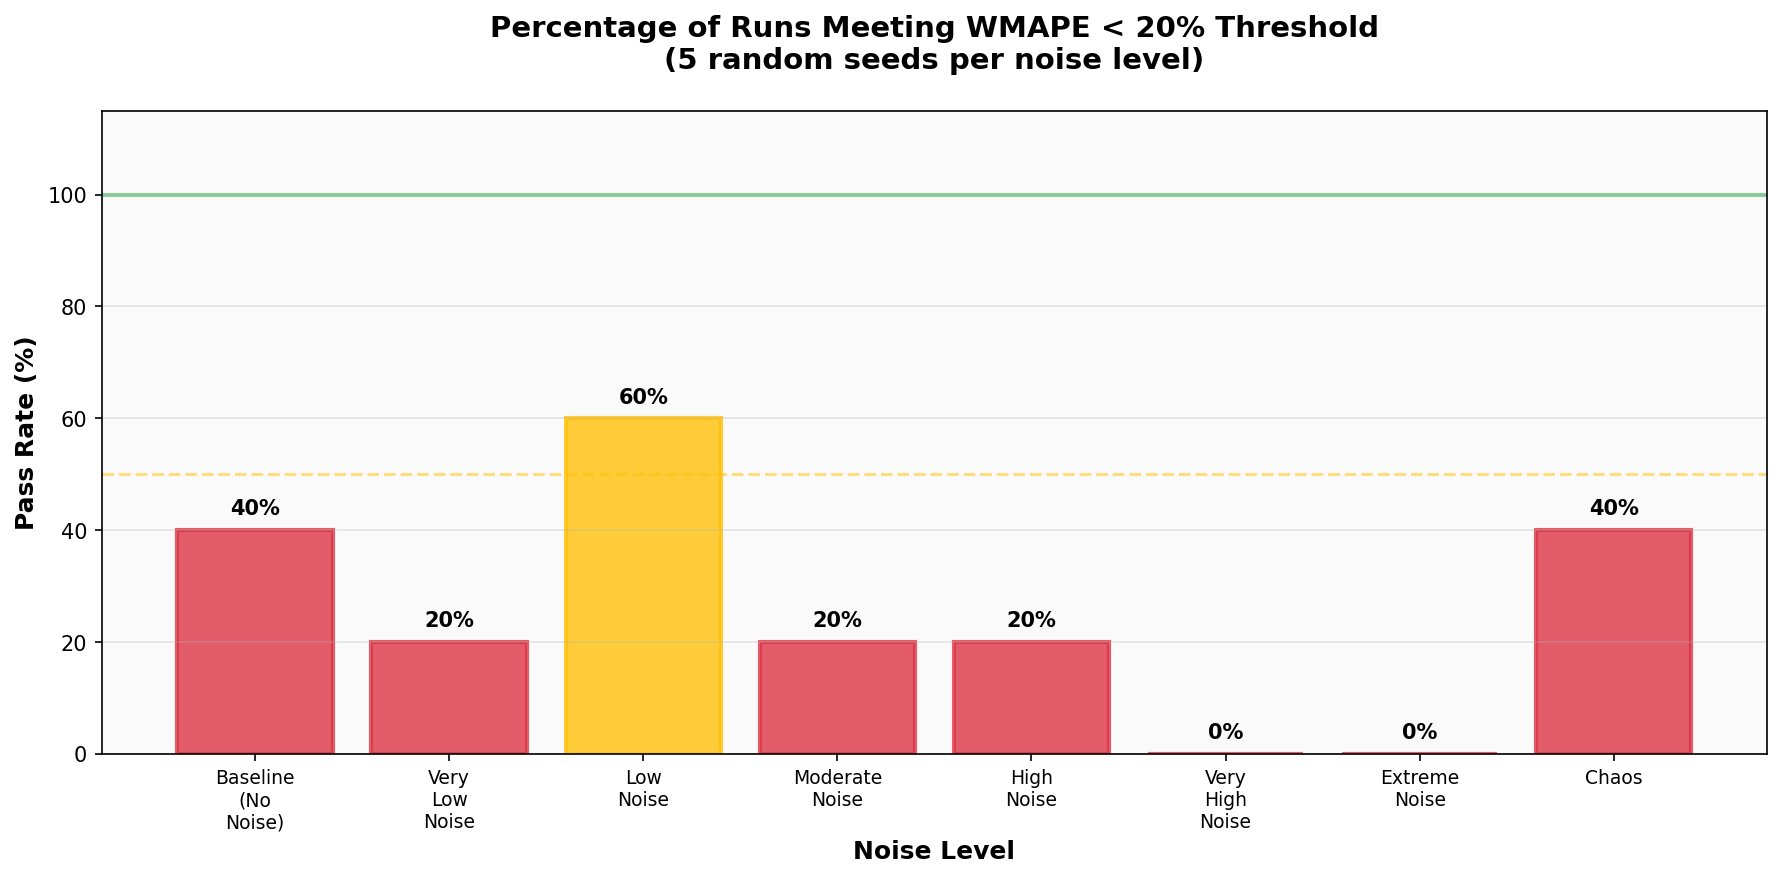
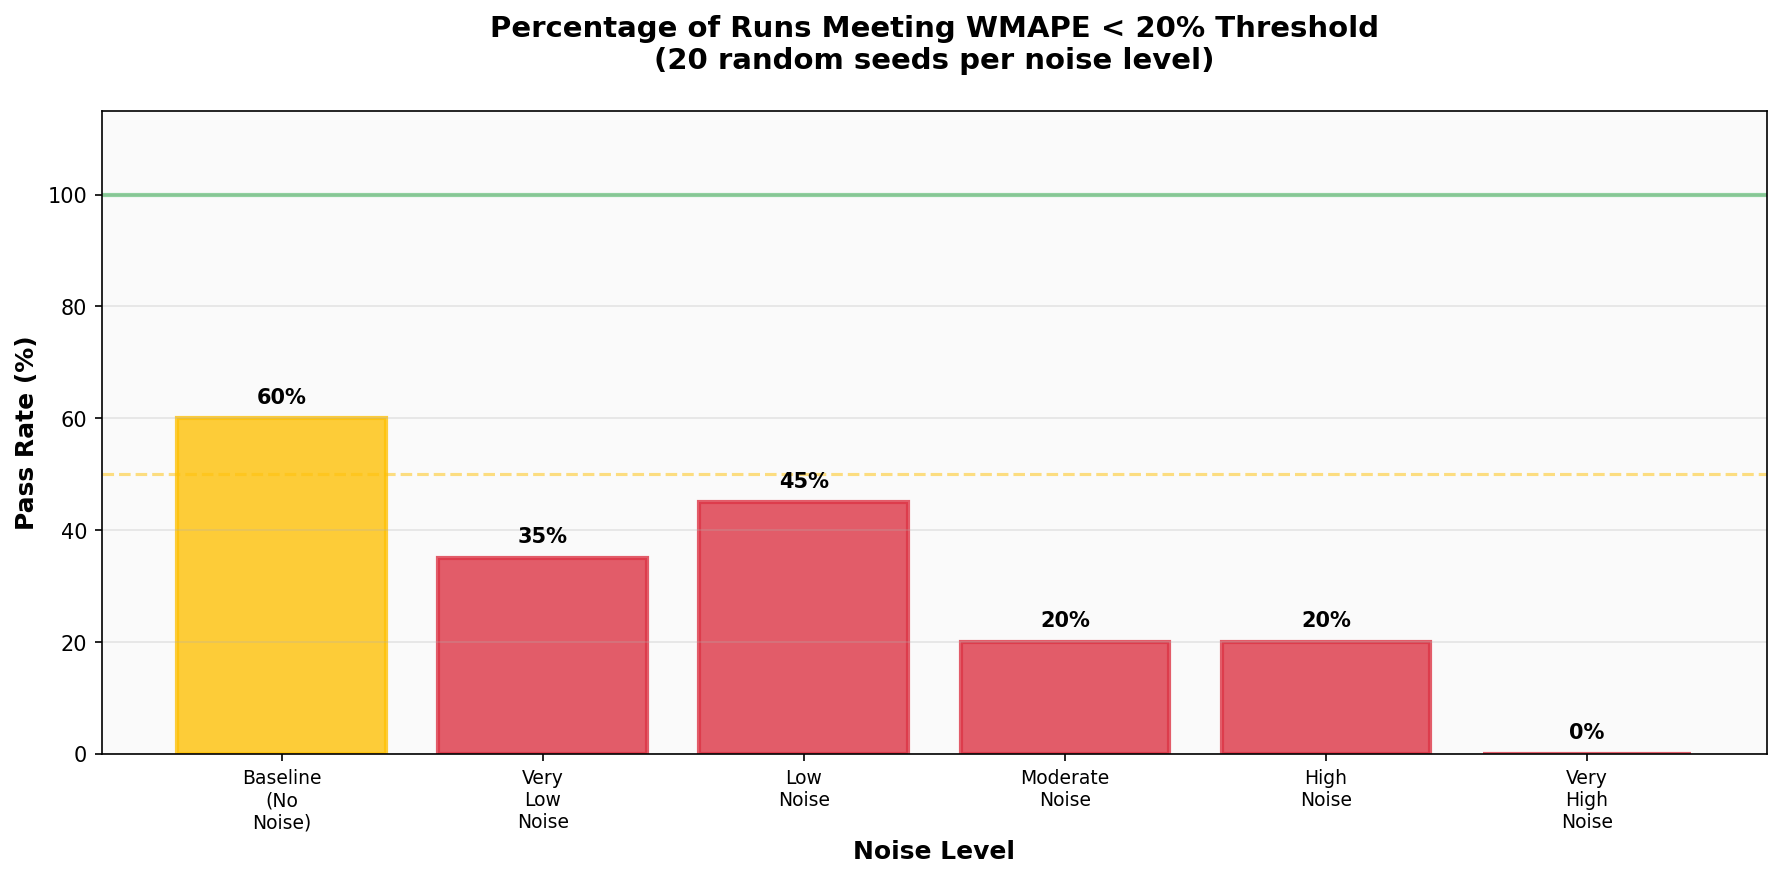
Refine noise sensitivity analysis: 6 levels × 20 seeds
- Remove Chaos and Extreme noise levels for cleaner analysis
- Increase sample size from 5 to 20 random seeds per noise level
- Total of 120 forecast runs for statistical robustness
- Update plot labels to reflect 20-seed sample size

Results show model maintains ~60% pass rate at baseline,
degrades to 0% at Very High noise level.

diff --git a/scripts/analyze_noise_sensitivity.py b/scripts/analyze_noise_sensitivity.py
@@ -52,8 +52,6 @@ NOISE_LEVELS = [
     NoiseConfig("Moderate Noise", 100, 40, 60, 1.5, 0.15, 600),
     NoiseConfig("High Noise", 200, 80, 100, 2.0, 0.20, 1000),
     NoiseConfig("Very High Noise", 400, 150, 150, 3.0, 0.30, 1500),
-    NoiseConfig("Extreme Noise", 600, 250, 200, 4.0, 0.40, 2500),
-    NoiseConfig("Chaos", 1000, 400, 300, 5.0, 0.50, 4000),
 ]
 
 
@@ -310,7 +308,8 @@ def analyze_noise_level(noise_config: NoiseConfig, seed: int = 42) -> NoiseResul
 def run_noise_analysis(seeds: List[int] = None) -> Dict[str, List[NoiseResult]]:
     """Run analysis across all noise levels with multiple seeds."""
     if seeds is None:
-        seeds = [42, 123, 456, 789, 2024]
+        seeds = [42, 123, 456, 789, 2024, 1337, 9999, 5555, 7777, 3141,
+                 1111, 2222, 3333, 4444, 6666, 8888, 1234, 5678, 9012, 3456]
 
     results = {}
 
@@ -361,7 +360,7 @@ def plot_wmape_vs_noise(results: Dict[str, List[NoiseResult]], output_path: str)
     # Styling
     ax.set_xlabel("Noise Level", fontsize=12, fontweight="bold")
     ax.set_ylabel("WMAPE (%)", fontsize=12, fontweight="bold")
-    ax.set_title("Model Accuracy Degradation Under Increasing Noise\n(Mean ± Std across 5 random seeds)",
+    ax.set_title("Model Accuracy Degradation Under Increasing Noise\n(Mean ± Std across 20 random seeds)",
                 fontsize=14, fontweight="bold", pad=20)
 
     ax.set_xticks(x)
@@ -499,7 +498,7 @@ def plot_model_selection_distribution(results: Dict[str, List[NoiseResult]], out
                    str(int(bar.get_height())), ha="center", va="bottom", fontsize=10)
 
     ax.set_xlabel("Noise Level", fontsize=12, fontweight="bold")
-    ax.set_ylabel("Number of Wins (out of 5 seeds)", fontsize=12, fontweight="bold")
+    ax.set_ylabel("Number of Wins (out of 20 seeds)", fontsize=12, fontweight="bold")
     ax.set_title("Model Selection Under Different Noise Conditions",
                 fontsize=14, fontweight="bold", pad=20)
 
@@ -590,7 +589,7 @@ def plot_threshold_pass_rate(results: Dict[str, List[NoiseResult]], output_path:
 
     ax.set_xlabel("Noise Level", fontsize=12, fontweight="bold")
     ax.set_ylabel("Pass Rate (%)", fontsize=12, fontweight="bold")
-    ax.set_title("Percentage of Runs Meeting WMAPE < 20% Threshold\n(5 random seeds per noise level)",
+    ax.set_title("Percentage of Runs Meeting WMAPE < 20% Threshold\n(20 random seeds per noise level)",
                 fontsize=14, fontweight="bold", pad=20)
 
     ax.set_xticks(x)
@@ -678,7 +677,7 @@ def main():
     print("NOISE SENSITIVITY ANALYSIS")
     print("=" * 60)
 
-    print(f"\nAnalyzing {len(NOISE_LEVELS)} noise levels with 5 random seeds each...")
+    print(f"\nAnalyzing {len(NOISE_LEVELS)} noise levels with 20 random seeds each...")
     results = run_noise_analysis()
 
     print("\nGenerating plots...")
